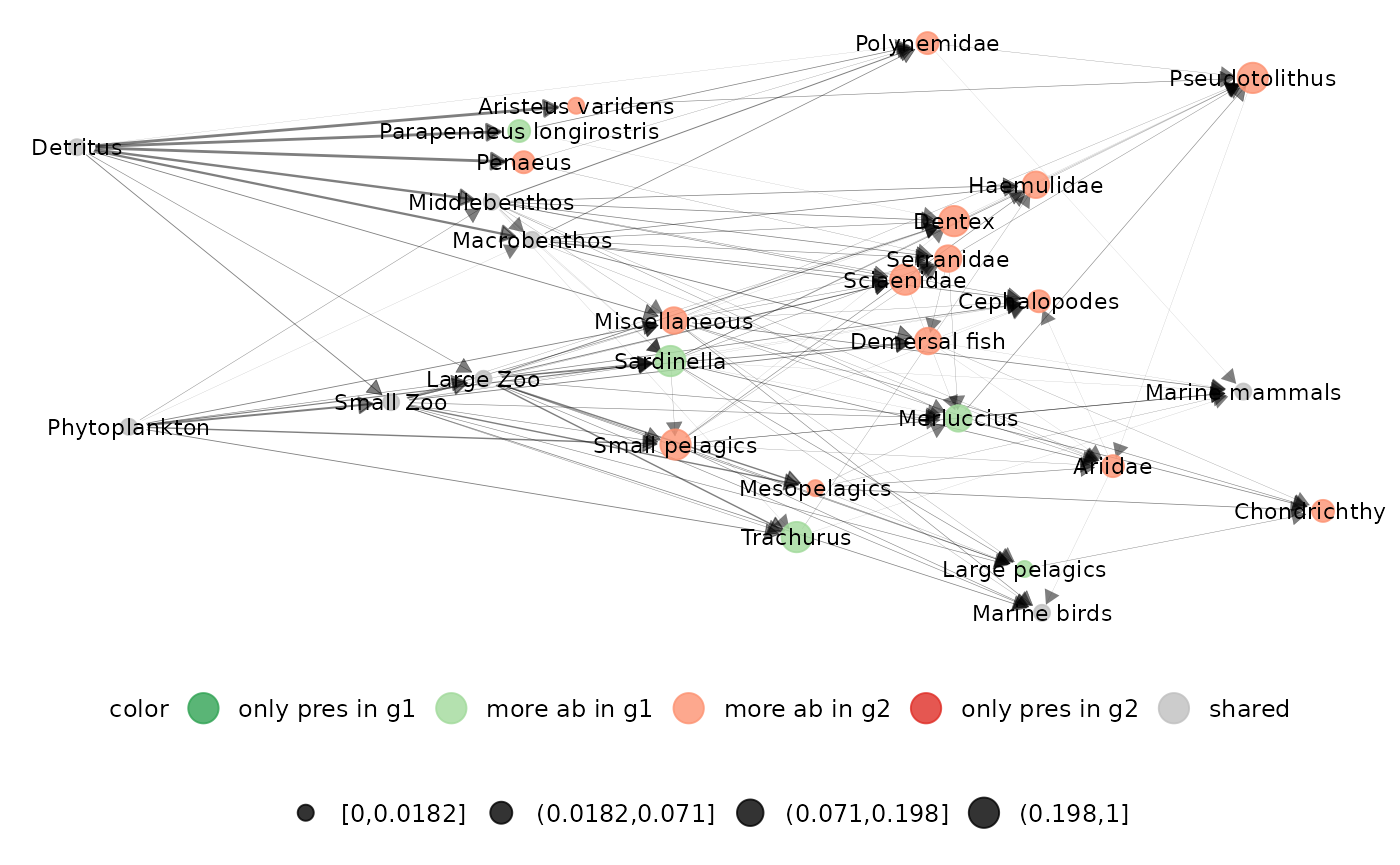
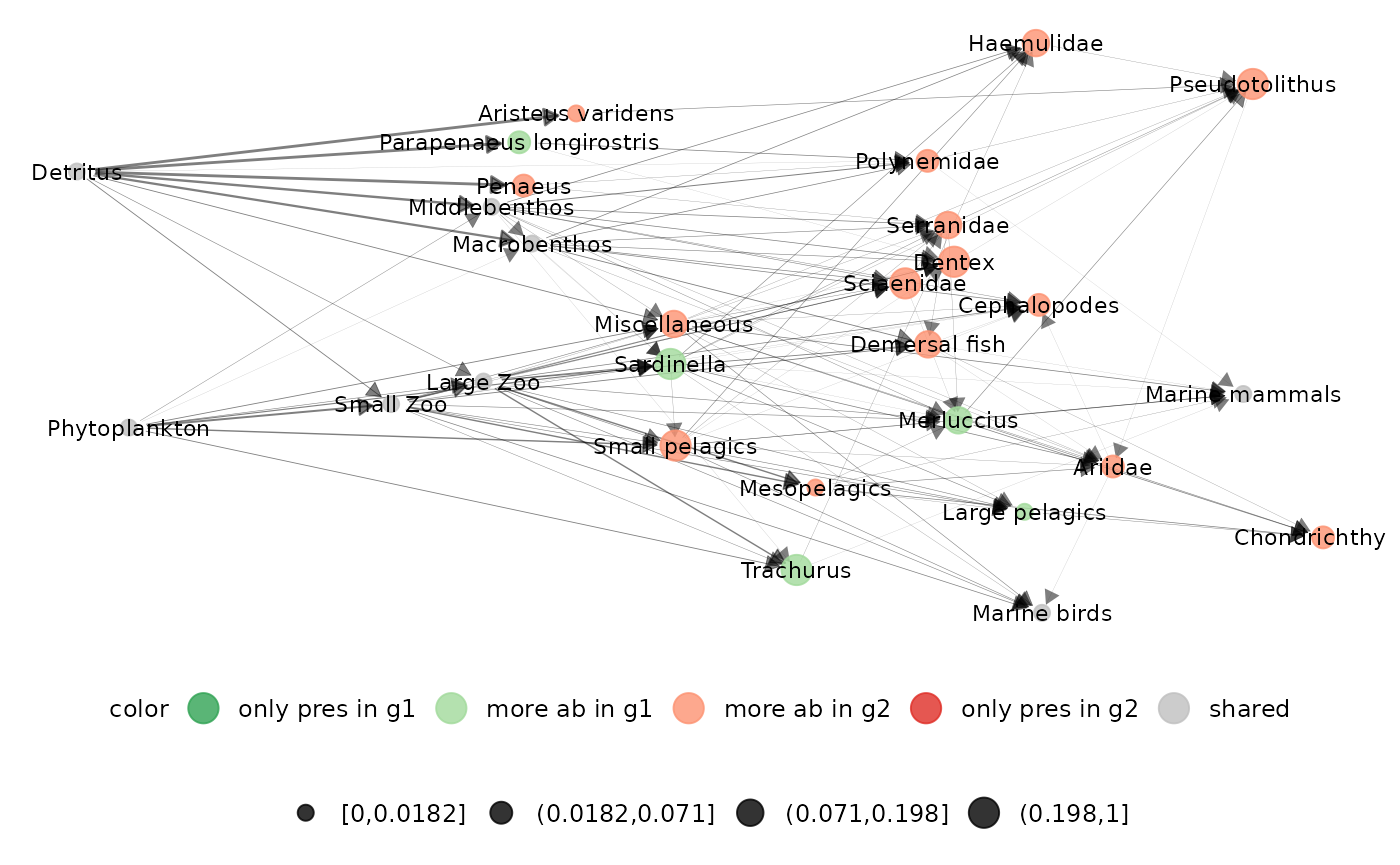
Built site for metanetwork: 0.1.2@ec26049

diff --git a/reference/attach_layout.html b/reference/attach_layout.html
@@ -117,40 +117,42 @@ squeezing of the network</p></dd>
 <span class="r-in"><span class="co"># on angola dataset (metaweb)</span></span>
 <span class="r-in"><span class="va">meta_angola</span> <span class="op">=</span> <span class="fu">attach_layout</span><span class="op">(</span><span class="va">meta_angola</span>,beta <span class="op">=</span> <span class="fl">0.05</span><span class="op">)</span></span>
 <span class="r-msg co"><span class="r-pr">#&gt;</span> beta = 0.05</span>
-<span class="r-msg co"><span class="r-pr">#&gt;</span> Epoch: Iteration #100 error is: 907.410775028481</span>
-<span class="r-msg co"><span class="r-pr">#&gt;</span> Epoch: Iteration #200 error is: 217.115652358542</span>
-<span class="r-msg co"><span class="r-pr">#&gt;</span> Epoch: Iteration #300 error is: 217.228459424264</span>
+<span class="r-msg co"><span class="r-pr">#&gt;</span> Epoch: Iteration #100 error is: 907.410775019804</span>
+<span class="r-msg co"><span class="r-pr">#&gt;</span> Epoch: Iteration #200 error is: 217.132298483309</span>
+<span class="r-msg co"><span class="r-pr">#&gt;</span> Epoch: Iteration #300 error is: 217.254822070427</span>
 <span class="r-in"><span class="fu"><a href="https://rdrr.io/pkg/igraph/man/V.html" class="external-link">V</a></span><span class="op">(</span><span class="va">meta_angola</span><span class="op">$</span><span class="va">metaweb</span><span class="op">)</span><span class="op">$</span><span class="va">layout_beta0.05</span></span>
-<span class="r-out co"><span class="r-pr">#&gt;</span>  [1]  23.0535023   6.1723524  -4.8337090   4.2017966  14.2832629 -15.2370318</span>
-<span class="r-out co"><span class="r-pr">#&gt;</span>  [7] -27.0567486  -7.1375125 -30.8729797 -21.2048186 -11.1700483 -24.0155799</span>
-<span class="r-out co"><span class="r-pr">#&gt;</span> [13]   8.4253706  18.1076752  26.4557812   1.9293647  20.4278932  -2.4519991</span>
-<span class="r-out co"><span class="r-pr">#&gt;</span> [19]  -0.3094649 -17.7489262  10.7864135  31.1009096  -9.2037199 -13.1766096</span>
-<span class="r-out co"><span class="r-pr">#&gt;</span> [25]  16.0952760  12.6186354  10.1794577 -19.4185433</span>
+<span class="r-out co"><span class="r-pr">#&gt;</span>  [1] -22.80347917  -8.40287802   4.79642092 -10.50471502  -6.17138573</span>
+<span class="r-out co"><span class="r-pr">#&gt;</span>  [6]  15.18624425  30.65498982   7.13956576  23.74000894  21.15002012</span>
+<span class="r-out co"><span class="r-pr">#&gt;</span> [11]  11.15493084  27.02859897 -19.98219487 -14.45057131 -30.24903867</span>
+<span class="r-out co"><span class="r-pr">#&gt;</span> [16]   0.04545316 -17.82957879   2.39451845  -2.33372045  17.66872081</span>
+<span class="r-out co"><span class="r-pr">#&gt;</span> [21]  -4.05673948 -26.09766973   9.21485881  13.19987228 -16.23170931</span>
+<span class="r-out co"><span class="r-pr">#&gt;</span> [26] -12.81110456 -10.71772086  19.26830285</span>
 <span class="r-in"><span class="co"># on a local network</span></span>
 <span class="r-in"><span class="va">meta_angola</span> <span class="op">=</span> <span class="fu">attach_layout</span><span class="op">(</span><span class="va">meta_angola</span>,g <span class="op">=</span> <span class="va">meta_angola</span><span class="op">$</span><span class="va">X1986</span>,beta <span class="op">=</span> <span class="fl">0.05</span><span class="op">)</span></span>
 <span class="r-msg co"><span class="r-pr">#&gt;</span> beta = 0.05</span>
-<span class="r-msg co"><span class="r-pr">#&gt;</span> Epoch: Iteration #100 error is: 907.41077501913</span>
-<span class="r-msg co"><span class="r-pr">#&gt;</span> Epoch: Iteration #200 error is: 217.131641496299</span>
-<span class="r-msg co"><span class="r-pr">#&gt;</span> Epoch: Iteration #300 error is: 217.261674021806</span>
+<span class="r-msg co"><span class="r-pr">#&gt;</span> Epoch: Iteration #100 error is: 907.410775018925</span>
+<span class="r-msg co"><span class="r-pr">#&gt;</span> Epoch: Iteration #200 error is: 217.12218082573</span>
+<span class="r-msg co"><span class="r-pr">#&gt;</span> Epoch: Iteration #300 error is: 217.239080491511</span>
 <span class="r-in"></span>
 <span class="r-in"><span class="co"># getting repetitions</span></span>
 <span class="r-in"><span class="va">meta_angola</span> <span class="op">=</span> <span class="fu">attach_layout</span><span class="op">(</span><span class="va">meta_angola</span>,beta <span class="op">=</span> <span class="fl">0.05</span><span class="op">)</span></span>
 <span class="r-msg co"><span class="r-pr">#&gt;</span> beta = 0.05</span>
-<span class="r-msg co"><span class="r-pr">#&gt;</span> Epoch: Iteration #100 error is: 907.410775018246</span>
-<span class="r-msg co"><span class="r-pr">#&gt;</span> Epoch: Iteration #200 error is: 217.144852609124</span>
-<span class="r-msg co"><span class="r-pr">#&gt;</span> Epoch: Iteration #300 error is: 217.267738853077</span>
+<span class="r-msg co"><span class="r-pr">#&gt;</span> Epoch: Iteration #100 error is: 907.41077501942</span>
+<span class="r-msg co"><span class="r-pr">#&gt;</span> Epoch: Iteration #200 error is: 217.137995136965</span>
+<span class="r-msg co"><span class="r-pr">#&gt;</span> Epoch: Iteration #300 error is: 217.261220430018</span>
 <span class="r-in"><span class="fu"><a href="https://rdrr.io/pkg/igraph/man/V.html" class="external-link">V</a></span><span class="op">(</span><span class="va">meta_angola</span><span class="op">$</span><span class="va">metaweb</span><span class="op">)</span><span class="op">$</span><span class="va">layout_beta0.05</span></span>
-<span class="r-out co"><span class="r-pr">#&gt;</span>  [1]  23.0535023   6.1723524  -4.8337090   4.2017966  14.2832629 -15.2370318</span>
-<span class="r-out co"><span class="r-pr">#&gt;</span>  [7] -27.0567486  -7.1375125 -30.8729797 -21.2048186 -11.1700483 -24.0155799</span>
-<span class="r-out co"><span class="r-pr">#&gt;</span> [13]   8.4253706  18.1076752  26.4557812   1.9293647  20.4278932  -2.4519991</span>
-<span class="r-out co"><span class="r-pr">#&gt;</span> [19]  -0.3094649 -17.7489262  10.7864135  31.1009096  -9.2037199 -13.1766096</span>
-<span class="r-out co"><span class="r-pr">#&gt;</span> [25]  16.0952760  12.6186354  10.1794577 -19.4185433</span>
+<span class="r-out co"><span class="r-pr">#&gt;</span>  [1] -22.80347917  -8.40287802   4.79642092 -10.50471502  -6.17138573</span>
+<span class="r-out co"><span class="r-pr">#&gt;</span>  [6]  15.18624425  30.65498982   7.13956576  23.74000894  21.15002012</span>
+<span class="r-out co"><span class="r-pr">#&gt;</span> [11]  11.15493084  27.02859897 -19.98219487 -14.45057131 -30.24903867</span>
+<span class="r-out co"><span class="r-pr">#&gt;</span> [16]   0.04545316 -17.82957879   2.39451845  -2.33372045  17.66872081</span>
+<span class="r-out co"><span class="r-pr">#&gt;</span> [21]  -4.05673948 -26.09766973   9.21485881  13.19987228 -16.23170931</span>
+<span class="r-out co"><span class="r-pr">#&gt;</span> [26] -12.81110456 -10.71772086  19.26830285</span>
 <span class="r-in"><span class="fu"><a href="https://rdrr.io/pkg/igraph/man/V.html" class="external-link">V</a></span><span class="op">(</span><span class="va">meta_angola</span><span class="op">$</span><span class="va">metaweb</span><span class="op">)</span><span class="op">$</span><span class="va">layout_beta0.05_1</span></span>
-<span class="r-out co"><span class="r-pr">#&gt;</span>  [1] -23.5658447  -4.3125781   4.6128528 -15.8558232 -10.6216305  15.0975507</span>
-<span class="r-out co"><span class="r-pr">#&gt;</span>  [7]  31.1662455   6.9466978  26.9078528  23.8130325  11.0190396  21.0642476</span>
-<span class="r-out co"><span class="r-pr">#&gt;</span> [13] -13.4916176 -18.2539000 -27.0377481  -2.1385212 -20.7262249   2.2340762</span>
-<span class="r-out co"><span class="r-pr">#&gt;</span> [19]   0.1159159  17.6820321  -7.6763019 -31.7790186   9.0469781  13.0515898</span>
-<span class="r-out co"><span class="r-pr">#&gt;</span> [25]  -6.2883780  -8.8406356 -11.5428840  19.3729950</span>
+<span class="r-out co"><span class="r-pr">#&gt;</span>  [1]  11.2100501   5.7648452  -4.7199024  15.8999129   7.6932718 -10.9968488</span>
+<span class="r-out co"><span class="r-pr">#&gt;</span>  [7] -26.4289286  -6.9752130 -30.1316088 -20.7633608 -14.9321675 -23.5193906</span>
+<span class="r-out co"><span class="r-pr">#&gt;</span> [13]  22.8754120  18.0678589  25.7320502   1.8656795  20.4386147  -2.3910385</span>
+<span class="r-out co"><span class="r-pr">#&gt;</span> [19]  -0.3131071 -17.3881884   3.9865423  29.9597351  -8.9766150 -13.0553896</span>
+<span class="r-out co"><span class="r-pr">#&gt;</span> [25]   9.4154561  14.2548732  12.4496973 -19.0222401</span>
 <span class="r-in"></span>
 </code></pre></div>
     </div>

diff --git a/reference/diff_plot.html b/reference/diff_plot.html
@@ -146,9 +146,9 @@ In that case, y-axis is the trophic level and x-axis is the layout axis</p></dd>
 <span class="r-msg co"><span class="r-pr">#&gt;</span> plotting: X2003_Species - X1986_Species</span>
 <span class="r-msg co"><span class="r-pr">#&gt;</span> mode is TL-tsne</span>
 <span class="r-msg co"><span class="r-pr">#&gt;</span> beta = 0.05</span>
-<span class="r-msg co"><span class="r-pr">#&gt;</span> Epoch: Iteration #100 error is: 907.373467951051</span>
-<span class="r-msg co"><span class="r-pr">#&gt;</span> Epoch: Iteration #200 error is: 217.147689832587</span>
-<span class="r-msg co"><span class="r-pr">#&gt;</span> Epoch: Iteration #300 error is: 217.280119750001</span>
+<span class="r-msg co"><span class="r-pr">#&gt;</span> Epoch: Iteration #100 error is: 907.373467952057</span>
+<span class="r-msg co"><span class="r-pr">#&gt;</span> Epoch: Iteration #200 error is: 217.12512193646</span>
+<span class="r-msg co"><span class="r-pr">#&gt;</span> Epoch: Iteration #300 error is: 217.256558941525</span>
 <span class="r-msg co"><span class="r-pr">#&gt;</span> Registered S3 method overwritten by 'GGally':</span>
 <span class="r-msg co"><span class="r-pr">#&gt;</span>   method from   </span>
 <span class="r-msg co"><span class="r-pr">#&gt;</span>   +.gg   ggplot2</span>
@@ -159,19 +159,19 @@ In that case, y-axis is the trophic level and x-axis is the layout axis</p></dd>
 <span class="r-msg co"><span class="r-pr">#&gt;</span> mode is TL-tsne</span>
 <span class="r-msg co"><span class="r-pr">#&gt;</span> plotting: X2003_Species - X1986_Species</span>
 <span class="r-msg co"><span class="r-pr">#&gt;</span> beta = 0.05</span>
-<span class="r-msg co"><span class="r-pr">#&gt;</span> Epoch: Iteration #100 error is: 907.373467955449</span>
-<span class="r-msg co"><span class="r-pr">#&gt;</span> Epoch: Iteration #200 error is: 217.10684975502</span>
-<span class="r-msg co"><span class="r-pr">#&gt;</span> Epoch: Iteration #300 error is: 217.224840771348</span>
+<span class="r-msg co"><span class="r-pr">#&gt;</span> Epoch: Iteration #100 error is: 907.373467982061</span>
+<span class="r-msg co"><span class="r-pr">#&gt;</span> Epoch: Iteration #200 error is: 217.127852136919</span>
+<span class="r-msg co"><span class="r-pr">#&gt;</span> Epoch: Iteration #300 error is: 217.262915852818</span>
 <span class="r-msg co"><span class="r-pr">#&gt;</span> x_max = 1356.85756899361</span>
-<span class="r-msg co"><span class="r-pr">#&gt;</span> y_max = 357.835184648641</span>
+<span class="r-msg co"><span class="r-pr">#&gt;</span> y_max = 361.320089599882</span>
 <span class="r-out co"><span class="r-pr">#&gt;</span> NULL</span>
 <span class="r-in"></span>
 <span class="r-in"><span class="co">#computing and using metaweb layout for diffplot</span></span>
 <span class="r-in"><span class="va">meta_angola</span> <span class="op">=</span> <span class="fu"><a href="attach_layout.html">attach_layout</a></span><span class="op">(</span><span class="va">meta_angola</span>,beta <span class="op">=</span> <span class="fl">0.1</span><span class="op">)</span></span>
 <span class="r-msg co"><span class="r-pr">#&gt;</span> beta = 0.1</span>
-<span class="r-msg co"><span class="r-pr">#&gt;</span> Epoch: Iteration #100 error is: 838.970941623953</span>
-<span class="r-msg co"><span class="r-pr">#&gt;</span> Epoch: Iteration #200 error is: 199.589203363076</span>
-<span class="r-msg co"><span class="r-pr">#&gt;</span> Epoch: Iteration #300 error is: 199.589190200869</span>
+<span class="r-msg co"><span class="r-pr">#&gt;</span> Epoch: Iteration #100 error is: 838.971683701237</span>
+<span class="r-msg co"><span class="r-pr">#&gt;</span> Epoch: Iteration #200 error is: 199.58920186974</span>
+<span class="r-msg co"><span class="r-pr">#&gt;</span> Epoch: Iteration #300 error is: 199.589190200877</span>
 <span class="r-in"><span class="fu">diff_plot</span><span class="op">(</span>g1 <span class="op">=</span> <span class="va">meta_angola</span><span class="op">$</span><span class="va">X2003</span>,g2 <span class="op">=</span> <span class="va">meta_angola</span><span class="op">$</span><span class="va">X1986</span>,metanetwork <span class="op">=</span> <span class="va">meta_angola</span>,</span>
 <span class="r-in">beta <span class="op">=</span> <span class="fl">0.1</span>,layout_metaweb <span class="op">=</span> <span class="cn">TRUE</span><span class="op">)</span></span>
 <span class="r-msg co"><span class="r-pr">#&gt;</span> mode is TL-tsne</span>
@@ -184,7 +184,7 @@ In that case, y-axis is the trophic level and x-axis is the layout axis</p></dd>
 <span class="r-msg co"><span class="r-pr">#&gt;</span> mode is TL-tsne</span>
 <span class="r-msg co"><span class="r-pr">#&gt;</span> plotting: X2003_Species - X1986_Species</span>
 <span class="r-msg co"><span class="r-pr">#&gt;</span> x_max = 1259.92651522773</span>
-<span class="r-msg co"><span class="r-pr">#&gt;</span> y_max = 340.638960573046</span>
+<span class="r-msg co"><span class="r-pr">#&gt;</span> y_max = 340.63896057351</span>
 <span class="r-out co"><span class="r-pr">#&gt;</span> NULL</span>
 <span class="r-in"></span>
 <span class="r-in"><span class="co">##contrasting alpha </span></span>
@@ -196,9 +196,9 @@ In that case, y-axis is the trophic level and x-axis is the layout axis</p></dd>
 <span class="r-msg co"><span class="r-pr">#&gt;</span> plotting: X2003_Species - X1986_Species</span>
 <span class="r-msg co"><span class="r-pr">#&gt;</span> mode is TL-tsne</span>
 <span class="r-msg co"><span class="r-pr">#&gt;</span> beta = 0.05</span>
-<span class="r-msg co"><span class="r-pr">#&gt;</span> Epoch: Iteration #100 error is: 907.3734679597</span>
-<span class="r-msg co"><span class="r-pr">#&gt;</span> Epoch: Iteration #200 error is: 217.138464834062</span>
-<span class="r-msg co"><span class="r-pr">#&gt;</span> Epoch: Iteration #300 error is: 217.266360635466</span>
+<span class="r-msg co"><span class="r-pr">#&gt;</span> Epoch: Iteration #100 error is: 907.373467957446</span>
+<span class="r-msg co"><span class="r-pr">#&gt;</span> Epoch: Iteration #200 error is: 217.118081255263</span>
+<span class="r-msg co"><span class="r-pr">#&gt;</span> Epoch: Iteration #300 error is: 217.253480576554</span>
 <span class="r-plt img"><img src="diff_plot-3.png" alt="" width="700" height="433"></span>
 <span class="r-in"><span class="co">#per node           </span></span>
 <span class="r-in"><span class="fu">diff_plot</span><span class="op">(</span>metanetwork <span class="op">=</span> <span class="va">meta_angola</span>,g1 <span class="op">=</span> <span class="va">meta_angola</span><span class="op">$</span><span class="va">X2003</span>,g2 <span class="op">=</span> <span class="va">meta_angola</span><span class="op">$</span><span class="va">X1986</span>,beta <span class="op">=</span> <span class="fl">0.05</span>,</span>
@@ -208,9 +208,9 @@ In that case, y-axis is the trophic level and x-axis is the layout axis</p></dd>
 <span class="r-msg co"><span class="r-pr">#&gt;</span> plotting: X2003_Species - X1986_Species</span>
 <span class="r-msg co"><span class="r-pr">#&gt;</span> mode is TL-tsne</span>
 <span class="r-msg co"><span class="r-pr">#&gt;</span> beta = 0.05</span>
-<span class="r-msg co"><span class="r-pr">#&gt;</span> Epoch: Iteration #100 error is: 907.373467948779</span>
-<span class="r-msg co"><span class="r-pr">#&gt;</span> Epoch: Iteration #200 error is: 217.12938492865</span>
-<span class="r-msg co"><span class="r-pr">#&gt;</span> Epoch: Iteration #300 error is: 217.257760525431</span>
+<span class="r-msg co"><span class="r-pr">#&gt;</span> Epoch: Iteration #100 error is: 907.373467951816</span>
+<span class="r-msg co"><span class="r-pr">#&gt;</span> Epoch: Iteration #200 error is: 217.132947126862</span>
+<span class="r-msg co"><span class="r-pr">#&gt;</span> Epoch: Iteration #300 error is: 217.265648949975</span>
 <span class="r-plt img"><img src="diff_plot-4.png" alt="" width="700" height="433"></span>
 <span class="r-in"></span>
 <span class="r-in"></span>

diff --git a/reference/vismetaNetwork.html b/reference/vismetaNetwork.html
@@ -133,28 +133,28 @@ In that case, y-axis is the trophic level and x-axis is the layout axis</p></dd>
 <span class="r-in"><span class="co">#on angola dataset</span></span>
 <span class="r-in"><span class="va">meta_angola</span> <span class="op">=</span> <span class="fu"><a href="attach_layout.html">attach_layout</a></span><span class="op">(</span><span class="va">meta_angola</span>, beta <span class="op">=</span> <span class="fl">0.05</span><span class="op">)</span></span>
 <span class="r-msg co"><span class="r-pr">#&gt;</span> beta = 0.05</span>
-<span class="r-msg co"><span class="r-pr">#&gt;</span> Epoch: Iteration #100 error is: 907.410775018321</span>
-<span class="r-msg co"><span class="r-pr">#&gt;</span> Epoch: Iteration #200 error is: 217.110895197413</span>
-<span class="r-msg co"><span class="r-pr">#&gt;</span> Epoch: Iteration #300 error is: 217.226130211284</span>
+<span class="r-msg co"><span class="r-pr">#&gt;</span> Epoch: Iteration #100 error is: 907.410775018039</span>
+<span class="r-msg co"><span class="r-pr">#&gt;</span> Epoch: Iteration #200 error is: 217.123626721515</span>
+<span class="r-msg co"><span class="r-pr">#&gt;</span> Epoch: Iteration #300 error is: 217.2509241463</span>
 <span class="r-in"><span class="fu">vismetaNetwork</span><span class="op">(</span><span class="va">meta_angola</span>, beta <span class="op">=</span> <span class="fl">0.05</span><span class="op">)</span></span>
 <span class="r-msg co"><span class="r-pr">#&gt;</span> x_max = 1259.92651522773</span>
-<span class="r-msg co"><span class="r-pr">#&gt;</span> y_max = 364.741213157458</span>
+<span class="r-msg co"><span class="r-pr">#&gt;</span> y_max = 358.548549178473</span>
 <span class="r-err co"><span class="r-pr">#&gt;</span> <span class="error">Error in x$width %||% settings$fig.width * settings$dpi:</span> non-numeric argument to binary operator</span>
 <span class="r-in"><span class="co"># flipping coordinates and controlling x_y_range</span></span>
 <span class="r-in"><span class="fu">vismetaNetwork</span><span class="op">(</span><span class="va">meta_angola</span>, beta <span class="op">=</span> <span class="fl">0.05</span>,flip_coords <span class="op">=</span> <span class="cn">TRUE</span>,x_y_range <span class="op">=</span> <span class="fu"><a href="https://rdrr.io/r/base/c.html" class="external-link">c</a></span><span class="op">(</span><span class="fl">50</span>,<span class="fl">200</span><span class="op">)</span><span class="op">)</span></span>
-<span class="r-msg co"><span class="r-pr">#&gt;</span> x_max = 1458.96485262983</span>
+<span class="r-msg co"><span class="r-pr">#&gt;</span> x_max = 1434.19419671389</span>
 <span class="r-msg co"><span class="r-pr">#&gt;</span> y_max = 314.981628806931</span>
 <span class="r-err co"><span class="r-pr">#&gt;</span> <span class="error">Error in x$width %||% settings$fig.width * settings$dpi:</span> non-numeric argument to binary operator</span>
 <span class="r-in"><span class="co">#adding a legend</span></span>
 <span class="r-in"><span class="fu">vismetaNetwork</span><span class="op">(</span><span class="va">meta_angola</span>,legend <span class="op">=</span> <span class="st">"Phylum"</span>, beta <span class="op">=</span> <span class="fl">0.05</span><span class="op">)</span></span>
 <span class="r-msg co"><span class="r-pr">#&gt;</span> x_max = 1259.92651522773</span>
-<span class="r-msg co"><span class="r-pr">#&gt;</span> y_max = 364.741213157458</span>
+<span class="r-msg co"><span class="r-pr">#&gt;</span> y_max = 358.548549178473</span>
 <span class="r-err co"><span class="r-pr">#&gt;</span> <span class="error">Error in x$width %||% settings$fig.width * settings$dpi:</span> non-numeric argument to binary operator</span>
 <span class="r-in"><span class="co">#use metaweb layout to represent a local network</span></span>
 <span class="r-in"><span class="fu">vismetaNetwork</span><span class="op">(</span>metanetwork <span class="op">=</span> <span class="va">meta_angola</span>,g <span class="op">=</span> <span class="va">meta_angola</span><span class="op">$</span><span class="va">X2003</span>,legend <span class="op">=</span> <span class="st">"Phylum"</span>, beta <span class="op">=</span> <span class="fl">0.05</span>,</span>
 <span class="r-in">layout_metaweb<span class="op">=</span><span class="cn">TRUE</span><span class="op">)</span></span>
 <span class="r-msg co"><span class="r-pr">#&gt;</span> x_max = 1259.92651522773</span>
-<span class="r-msg co"><span class="r-pr">#&gt;</span> y_max = 364.741213157458</span>
+<span class="r-msg co"><span class="r-pr">#&gt;</span> y_max = 358.548549178473</span>
 <span class="r-err co"><span class="r-pr">#&gt;</span> <span class="error">Error in x$width %||% settings$fig.width * settings$dpi:</span> non-numeric argument to binary operator</span>
 <span class="r-in"></span>
 <span class="r-in"><span class="co">#custom visNetwork parameters</span></span>
@@ -165,7 +165,7 @@ In that case, y-axis is the trophic level and x-axis is the layout axis</p></dd>
 <span class="r-in"><span class="fu">vismetaNetwork</span><span class="op">(</span><span class="va">meta_angola</span>,legend <span class="op">=</span> <span class="st">"Phylum"</span>, beta <span class="op">=</span> <span class="fl">0.05</span>,</span>
 <span class="r-in">visNetwork.config <span class="op">=</span> <span class="va">visNetwork.custom</span><span class="op">)</span></span>
 <span class="r-msg co"><span class="r-pr">#&gt;</span> x_max = 1259.92651522773</span>
-<span class="r-msg co"><span class="r-pr">#&gt;</span> y_max = 364.741213157458</span>
+<span class="r-msg co"><span class="r-pr">#&gt;</span> y_max = 358.548549178473</span>
 <span class="r-err co"><span class="r-pr">#&gt;</span> <span class="error">Error in x$width %||% settings$fig.width * settings$dpi:</span> non-numeric argument to binary operator</span>
 <span class="r-in"></span>
 <span class="r-in"></span>

diff --git a/reference/append_agg_nets.html b/reference/append_agg_nets.html
@@ -189,9 +189,9 @@ the hierarchy describes in <code>trophicTable</code></p>
 <span class="r-out co"><span class="r-pr">#&gt;</span> + ... omitted several edges</span>
 <span class="r-out co"><span class="r-pr">#&gt;</span> </span>
 <span class="r-out co"><span class="r-pr">#&gt;</span> $metaweb_Phylum</span>
-<span class="r-out co"><span class="r-pr">#&gt;</span> IGRAPH 9cbd257 DNW- 8 24 -- metaweb</span>
+<span class="r-out co"><span class="r-pr">#&gt;</span> IGRAPH 229d5d9 DNW- 8 24 -- metaweb</span>
 <span class="r-out co"><span class="r-pr">#&gt;</span> + attr: res (g/c), name (g/c), name (v/c), ab (v/n), weight (e/n)</span>
-<span class="r-out co"><span class="r-pr">#&gt;</span> + edges from 9cbd257 (vertex names):</span>
+<span class="r-out co"><span class="r-pr">#&gt;</span> + edges from 229d5d9 (vertex names):</span>
 <span class="r-out co"><span class="r-pr">#&gt;</span>  [1] Arthropoda-&gt;Benthos    Arthropoda-&gt;Bird       Arthropoda-&gt;Fish      </span>
 <span class="r-out co"><span class="r-pr">#&gt;</span>  [4] Arthropoda-&gt;Mammals    Arthropoda-&gt;Mollusca   Benthos   -&gt;Arthropoda</span>
 <span class="r-out co"><span class="r-pr">#&gt;</span>  [7] Benthos   -&gt;Benthos    Benthos   -&gt;Fish       Benthos   -&gt;Mollusca  </span>
@@ -202,9 +202,9 @@ the hierarchy describes in <code>trophicTable</code></p>
 <span class="r-out co"><span class="r-pr">#&gt;</span> [22] Plant     -&gt;Benthos    Plant     -&gt;Fish       Plant     -&gt;Plankton  </span>
 <span class="r-out co"><span class="r-pr">#&gt;</span> </span>
 <span class="r-out co"><span class="r-pr">#&gt;</span> $X1986_Phylum</span>
-<span class="r-out co"><span class="r-pr">#&gt;</span> IGRAPH 86db967 DNW- 8 24 -- X1986</span>
+<span class="r-out co"><span class="r-pr">#&gt;</span> IGRAPH 2b236e5 DNW- 8 24 -- X1986</span>
 <span class="r-out co"><span class="r-pr">#&gt;</span> + attr: res (g/c), name (g/c), name (v/c), ab (v/n), weight (e/n)</span>
-<span class="r-out co"><span class="r-pr">#&gt;</span> + edges from 86db967 (vertex names):</span>
+<span class="r-out co"><span class="r-pr">#&gt;</span> + edges from 2b236e5 (vertex names):</span>
 <span class="r-out co"><span class="r-pr">#&gt;</span>  [1] Arthropoda-&gt;Benthos    Arthropoda-&gt;Bird       Arthropoda-&gt;Fish      </span>
 <span class="r-out co"><span class="r-pr">#&gt;</span>  [4] Arthropoda-&gt;Mammals    Arthropoda-&gt;Mollusca   Benthos   -&gt;Arthropoda</span>
 <span class="r-out co"><span class="r-pr">#&gt;</span>  [7] Benthos   -&gt;Benthos    Benthos   -&gt;Fish       Benthos   -&gt;Mollusca  </span>
@@ -215,9 +215,9 @@ the hierarchy describes in <code>trophicTable</code></p>
 <span class="r-out co"><span class="r-pr">#&gt;</span> [22] Plant     -&gt;Benthos    Plant     -&gt;Fish       Plant     -&gt;Plankton  </span>
 <span class="r-out co"><span class="r-pr">#&gt;</span> </span>
 <span class="r-out co"><span class="r-pr">#&gt;</span> $X2003_Phylum</span>
-<span class="r-out co"><span class="r-pr">#&gt;</span> IGRAPH 76e2aaa DNW- 8 24 -- X2003</span>
+<span class="r-out co"><span class="r-pr">#&gt;</span> IGRAPH 1002b91 DNW- 8 24 -- X2003</span>
 <span class="r-out co"><span class="r-pr">#&gt;</span> + attr: res (g/c), name (g/c), name (v/c), ab (v/n), weight (e/n)</span>
-<span class="r-out co"><span class="r-pr">#&gt;</span> + edges from 76e2aaa (vertex names):</span>
+<span class="r-out co"><span class="r-pr">#&gt;</span> + edges from 1002b91 (vertex names):</span>
 <span class="r-out co"><span class="r-pr">#&gt;</span>  [1] Arthropoda-&gt;Benthos    Arthropoda-&gt;Bird       Arthropoda-&gt;Fish      </span>
 <span class="r-out co"><span class="r-pr">#&gt;</span>  [4] Arthropoda-&gt;Mammals    Arthropoda-&gt;Mollusca   Benthos   -&gt;Arthropoda</span>
 <span class="r-out co"><span class="r-pr">#&gt;</span>  [7] Benthos   -&gt;Benthos    Benthos   -&gt;Fish       Benthos   -&gt;Mollusca  </span>

diff --git a/reference/ggmetanet.html b/reference/ggmetanet.html
@@ -146,9 +146,9 @@ should be asked in interactive mode to the user</p></dd>
 <span class="r-in"><span class="fu">ggmetanet</span><span class="op">(</span><span class="va">meta0</span><span class="op">)</span></span>
 <span class="r-msg co"><span class="r-pr">#&gt;</span> mode is TL-tsne</span>
 <span class="r-msg co"><span class="r-pr">#&gt;</span> beta = 0.1</span>
-<span class="r-msg co"><span class="r-pr">#&gt;</span> Epoch: Iteration #100 error is: 145.61672751566</span>
-<span class="r-msg co"><span class="r-pr">#&gt;</span> Epoch: Iteration #200 error is: 34.6730902369467</span>
-<span class="r-msg co"><span class="r-pr">#&gt;</span> Epoch: Iteration #300 error is: 34.6730815323284</span>
+<span class="r-msg co"><span class="r-pr">#&gt;</span> Epoch: Iteration #100 error is: 145.616712444814</span>
+<span class="r-msg co"><span class="r-pr">#&gt;</span> Epoch: Iteration #200 error is: 34.6731521381374</span>
+<span class="r-msg co"><span class="r-pr">#&gt;</span> Epoch: Iteration #300 error is: 34.6731188214619</span>
 <span class="r-wrn co"><span class="r-pr">#&gt;</span> <span class="warning">Warning: </span>node.size is invariant; size.cut ignored</span>
 <span class="r-wrn co"><span class="r-pr">#&gt;</span> <span class="warning">Warning: </span>Removed 5 rows containing missing values (geom_segment).</span>
 <span class="r-wrn co"><span class="r-pr">#&gt;</span> <span class="warning">Warning: </span>Removed 5 rows containing missing values (geom_point).</span>
@@ -160,9 +160,9 @@ should be asked in interactive mode to the user</p></dd>
 <span class="r-in"><span class="fu">ggmetanet</span><span class="op">(</span><span class="va">meta_angola</span>,legend <span class="op">=</span> <span class="st">'Phylum'</span>,beta <span class="op">=</span> <span class="fl">0.05</span><span class="op">)</span></span>
 <span class="r-msg co"><span class="r-pr">#&gt;</span> mode is TL-tsne</span>
 <span class="r-msg co"><span class="r-pr">#&gt;</span> beta = 0.05</span>
-<span class="r-msg co"><span class="r-pr">#&gt;</span> Epoch: Iteration #100 error is: 907.410775018279</span>
-<span class="r-msg co"><span class="r-pr">#&gt;</span> Epoch: Iteration #200 error is: 217.132921607483</span>
-<span class="r-msg co"><span class="r-pr">#&gt;</span> Epoch: Iteration #300 error is: 217.263111266933</span>
+<span class="r-msg co"><span class="r-pr">#&gt;</span> Epoch: Iteration #100 error is: 907.410775020362</span>
+<span class="r-msg co"><span class="r-pr">#&gt;</span> Epoch: Iteration #200 error is: 217.124643264438</span>
+<span class="r-msg co"><span class="r-pr">#&gt;</span> Epoch: Iteration #300 error is: 217.260805353699</span>
 <span class="r-plt img"><img src="ggmetanet-2.png" alt="" width="700" height="433"></span>
 <span class="r-in"></span>
 </code></pre></div>

diff --git a/reference/metanet_pipe.html b/reference/metanet_pipe.html
@@ -105,8 +105,8 @@ squeezing of the network</p></dd>
 <span class="r-msg co"><span class="r-pr">#&gt;</span> computing trophic levels</span>
 <span class="r-msg co"><span class="r-pr">#&gt;</span> attaching layout for beta= 0.1</span>
 <span class="r-msg co"><span class="r-pr">#&gt;</span> beta = 0.1</span>
-<span class="r-msg co"><span class="r-pr">#&gt;</span> Epoch: Iteration #100 error is: 431.4024558919</span>
-<span class="r-msg co"><span class="r-pr">#&gt;</span> Epoch: Iteration #200 error is: 101.980051216081</span>
+<span class="r-msg co"><span class="r-pr">#&gt;</span> Epoch: Iteration #100 error is: 431.402455891913</span>
+<span class="r-msg co"><span class="r-pr">#&gt;</span> Epoch: Iteration #200 error is: 101.980051213806</span>
 <span class="r-msg co"><span class="r-pr">#&gt;</span> Epoch: Iteration #300 error is: 101.980051216652</span>
 <span class="r-in"><span class="fu"><a href="ggmetanet.html">ggmetanet</a></span><span class="op">(</span><span class="va">meta0</span><span class="op">)</span></span>
 <span class="r-msg co"><span class="r-pr">#&gt;</span> mode is TL-tsne</span>
@@ -119,9 +119,9 @@ squeezing of the network</p></dd>
 <span class="r-msg co"><span class="r-pr">#&gt;</span> computing trophic levels</span>
 <span class="r-msg co"><span class="r-pr">#&gt;</span> attaching layout for beta= 0.1</span>
 <span class="r-msg co"><span class="r-pr">#&gt;</span> beta = 0.1</span>
-<span class="r-msg co"><span class="r-pr">#&gt;</span> Epoch: Iteration #100 error is: 838.975338413377</span>
-<span class="r-msg co"><span class="r-pr">#&gt;</span> Epoch: Iteration #200 error is: 199.589200465257</span>
-<span class="r-msg co"><span class="r-pr">#&gt;</span> Epoch: Iteration #300 error is: 199.589190200877</span>
+<span class="r-msg co"><span class="r-pr">#&gt;</span> Epoch: Iteration #100 error is: 838.992764424772</span>
+<span class="r-msg co"><span class="r-pr">#&gt;</span> Epoch: Iteration #200 error is: 199.589213219522</span>
+<span class="r-msg co"><span class="r-pr">#&gt;</span> Epoch: Iteration #300 error is: 199.589190200876</span>
 <span class="r-in"></span>
 </code></pre></div>
     </div>

diff --git a/reference/metanet_build_pipe.html b/reference/metanet_build_pipe.html
@@ -106,7 +106,7 @@ squeezing of the network</p></dd>
 <span class="r-msg co"><span class="r-pr">#&gt;</span> attaching layout for beta= 0.1</span>
 <span class="r-msg co"><span class="r-pr">#&gt;</span> beta = 0.1</span>
 <span class="r-msg co"><span class="r-pr">#&gt;</span> Epoch: Iteration #100 error is: 431.402455891915</span>
-<span class="r-msg co"><span class="r-pr">#&gt;</span> Epoch: Iteration #200 error is: 101.980051218157</span>
+<span class="r-msg co"><span class="r-pr">#&gt;</span> Epoch: Iteration #200 error is: 101.980051218238</span>
 <span class="r-msg co"><span class="r-pr">#&gt;</span> Epoch: Iteration #300 error is: 101.980051216652</span>
 <span class="r-in"><span class="fu"><a href="ggmetanet.html">ggmetanet</a></span><span class="op">(</span><span class="va">meta0</span><span class="op">)</span></span>
 <span class="r-msg co"><span class="r-pr">#&gt;</span> mode is TL-tsne</span>
@@ -119,9 +119,9 @@ squeezing of the network</p></dd>
 <span class="r-msg co"><span class="r-pr">#&gt;</span> computing trophic levels</span>
 <span class="r-msg co"><span class="r-pr">#&gt;</span> attaching layout for beta= 0.05</span>
 <span class="r-msg co"><span class="r-pr">#&gt;</span> beta = 0.05</span>
-<span class="r-msg co"><span class="r-pr">#&gt;</span> Epoch: Iteration #100 error is: 907.4107750191</span>
-<span class="r-msg co"><span class="r-pr">#&gt;</span> Epoch: Iteration #200 error is: 217.114333663249</span>
-<span class="r-msg co"><span class="r-pr">#&gt;</span> Epoch: Iteration #300 error is: 217.23056364054</span>
+<span class="r-msg co"><span class="r-pr">#&gt;</span> Epoch: Iteration #100 error is: 907.410775019374</span>
+<span class="r-msg co"><span class="r-pr">#&gt;</span> Epoch: Iteration #200 error is: 217.131492366444</span>
+<span class="r-msg co"><span class="r-pr">#&gt;</span> Epoch: Iteration #300 error is: 217.264065221738</span>
 <span class="r-in"></span>
 </code></pre></div>
     </div>

diff --git a/reference/pipe.html b/reference/pipe.html
@@ -78,9 +78,9 @@ function composition into a series of imperative statements.</p>
 <span class="r-in"><span class="kw"><a href="https://rdrr.io/r/base/library.html" class="external-link">library</a></span><span class="op">(</span><span class="va"><a href="https://github.com/MarcOhlmann/metanetwork" class="external-link">metanetwork</a></span><span class="op">)</span></span>
 <span class="r-in"><span class="va">meta_angola</span> <span class="op">%&gt;%</span> <span class="fu"><a href="attach_layout.html">attach_layout</a></span><span class="op">(</span><span class="op">)</span> <span class="op">%&gt;%</span> <span class="fu"><a href="ggmetanet.html">ggmetanet</a></span><span class="op">(</span><span class="op">)</span></span>
 <span class="r-msg co"><span class="r-pr">#&gt;</span> beta = 0.1</span>
-<span class="r-msg co"><span class="r-pr">#&gt;</span> Epoch: Iteration #100 error is: 838.971118594617</span>
-<span class="r-msg co"><span class="r-pr">#&gt;</span> Epoch: Iteration #200 error is: 199.589203128709</span>
-<span class="r-msg co"><span class="r-pr">#&gt;</span> Epoch: Iteration #300 error is: 199.589190200879</span>
+<span class="r-msg co"><span class="r-pr">#&gt;</span> Epoch: Iteration #100 error is: 838.995159516777</span>
+<span class="r-msg co"><span class="r-pr">#&gt;</span> Epoch: Iteration #200 error is: 199.589206967245</span>
+<span class="r-msg co"><span class="r-pr">#&gt;</span> Epoch: Iteration #300 error is: 199.589190200881</span>
 <span class="r-msg co"><span class="r-pr">#&gt;</span> mode is TL-tsne</span>
 <span class="r-plt img"><img src="pipe-1.png" alt="" width="700" height="433"></span>
 </code></pre></div>

diff --git a/index.html b/index.html
@@ -139,7 +139,7 @@
 <div class="section level2">
 <h2 id="metanetwork-map">‘metanetwork’ map<a class="anchor" aria-label="anchor" href="#metanetwork-map"></a>
 </h2>
-<p><img src="reference/figures/metanetwork_map.png" title="A caption" alt="A caption" width="50%"></p>
+<p><img src="reference/figures/metanetwork_map.png" title="A caption" alt="A caption" width="60%"></p>
 </div>
 <div class="section level2">
 <h2 id="authors">Authors<a class="anchor" aria-label="anchor" href="#authors"></a>
